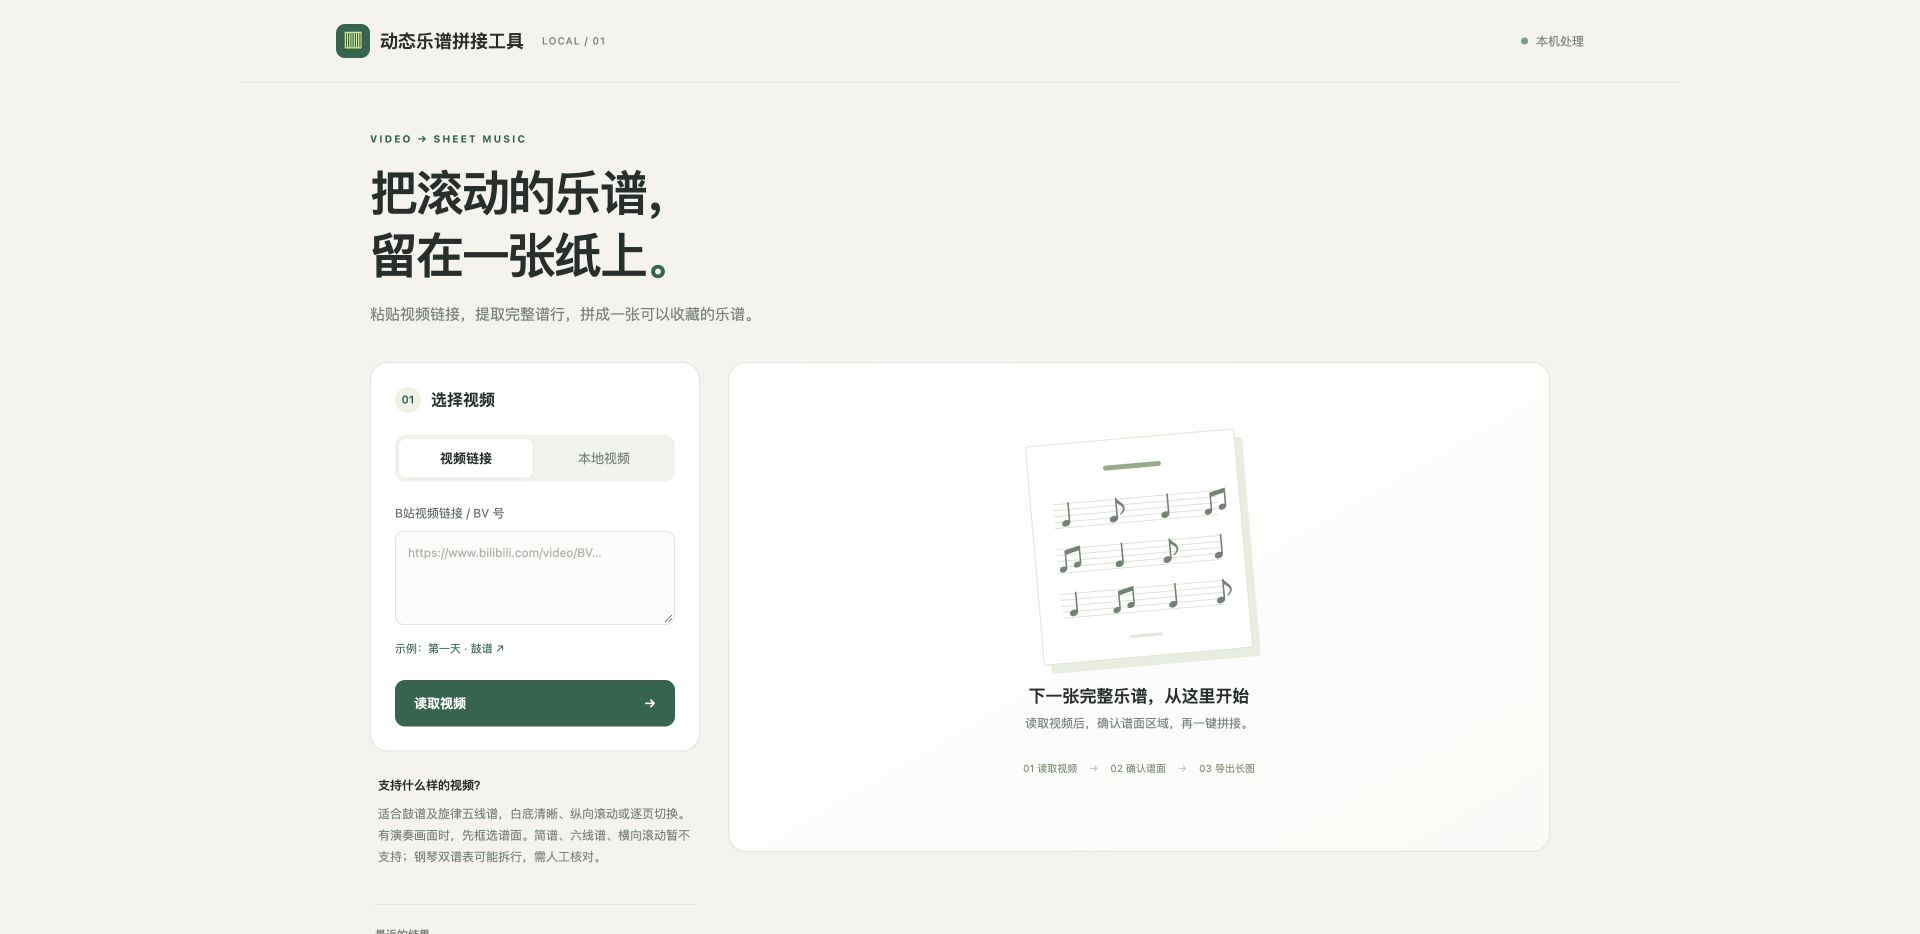
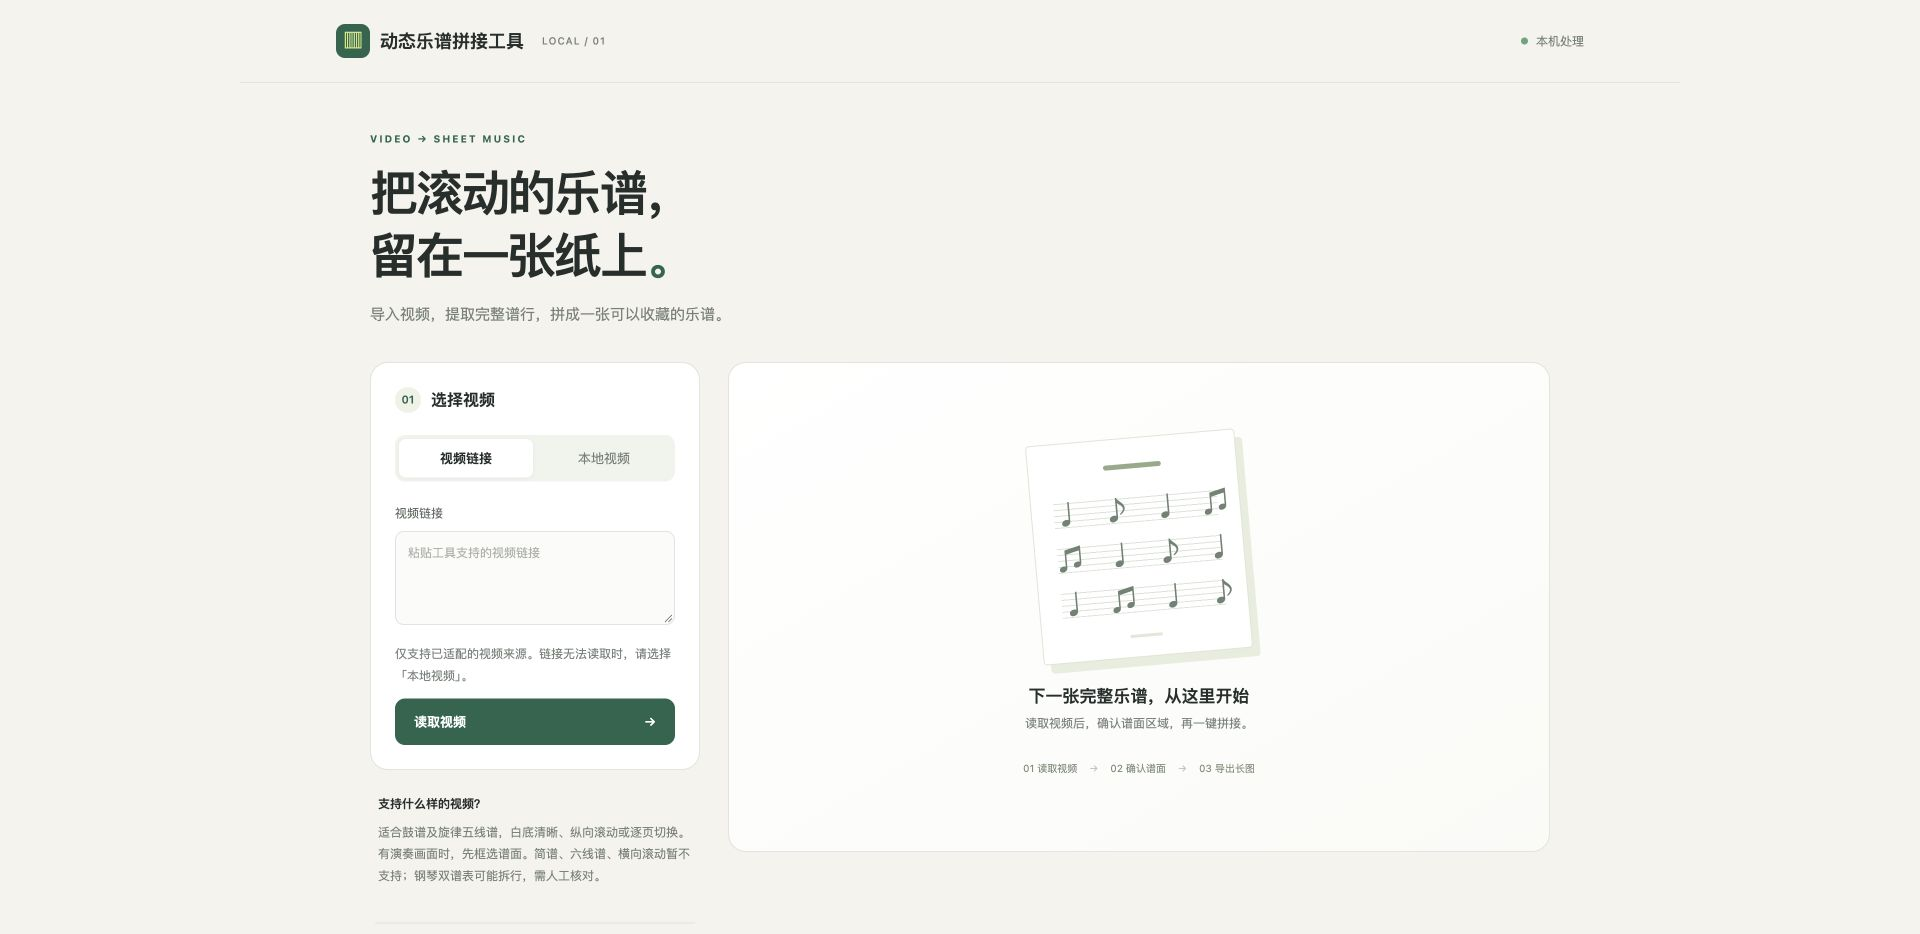
Use platform-neutral project copy and video input UI

diff --git a/web/index.html b/web/index.html
@@ -8,13 +8,13 @@
 <body>
 <header class="topbar"><a class="brand" href="/" aria-label="动态乐谱拼接工具首页"><span class="brand-icon">▥</span> 动态乐谱拼接工具 <span class="version">LOCAL / 01</span></a><span class="local"><i></i> 本机处理</span></header>
 <main>
-  <section class="intro"><p class="eyebrow">VIDEO → SHEET MUSIC</p><h1>把滚动的乐谱，<br>留在一张纸上<span>。</span></h1><p class="lede">粘贴视频链接，提取完整谱行，拼成一张可以收藏的乐谱。</p></section>
+  <section class="intro"><p class="eyebrow">VIDEO → SHEET MUSIC</p><h1>把滚动的乐谱，<br>留在一张纸上<span>。</span></h1><p class="lede">导入视频，提取完整谱行，拼成一张可以收藏的乐谱。</p></section>
   <div class="workspace">
     <aside>
       <section class="card source-card">
         <div class="section-heading"><span class="step">01</span><h2>选择视频</h2></div>
         <div class="tabs" role="tablist"><button role="tab" aria-selected="true" id="link-tab">视频链接</button><button role="tab" aria-selected="false" id="upload-tab">本地视频</button></div>
-        <form id="link-form"><label for="url">B站视频链接 / BV 号</label><textarea id="url" rows="3" placeholder="https://www.bilibili.com/video/BV…" required></textarea><button class="example" type="button" id="example">示例：第一天 · 鼓谱 ↗</button><button class="primary wide" id="read-button" type="submit">读取视频 <span>→</span></button></form>
+        <form id="link-form"><label for="url">视频链接</label><textarea id="url" rows="3" placeholder="粘贴工具支持的视频链接" required></textarea><p class="hint">仅支持已适配的视频来源。链接无法读取时，请选择「本地视频」。</p><button class="primary wide" id="read-button" type="submit">读取视频 <span>→</span></button></form>
         <div id="upload-panel" hidden><label class="dropzone" id="dropzone" for="file"><span class="upload-symbol">↑</span><strong>选择或拖入视频</strong><small>MP4、MOV、MKV · 最大 1 GB</small><input id="file" type="file" accept="video/*,.mkv,.flv,.webm"></label><p class="hint">视频留在本机，不会上传到云端。</p></div>
       </section>
       <section class="note"><span>支持什么样的视频？</span><p>适合鼓谱及旋律五线谱，白底清晰、纵向滚动或逐页切换。有演奏画面时，先框选谱面。简谱、六线谱、横向滚动暂不支持；钢琴双谱表可能拆行，需人工核对。</p></section>

diff --git a/web/app.js b/web/app.js
@@ -18,7 +18,6 @@ async function api(path, body) {
 function lockSources(busy) {
   $('read-button').disabled = busy;
   $('file').disabled = busy;
-  $('example').disabled = busy;
 }
 function tab(source) {
   $('link-tab').setAttribute('aria-selected', String(source === 'link'));
@@ -27,7 +26,6 @@ function tab(source) {
 }
 $('link-tab').onclick = () => tab('link');
 $('upload-tab').onclick = () => tab('upload');
-$('example').onclick = () => { $('url').value = 'https://www.bilibili.com/video/BV1Le411i7Bp/'; $('url').focus(); };
 $('link-form').onsubmit = async event => {
   event.preventDefault(); show('error', false); lockSources(true);
   try { await activate(await api('/api/link', {url: $('url').value.trim()})); }

diff --git a/sources.py b/sources.py
@@ -19,7 +19,7 @@ def api(path, params):
     with request("https://api.bilibili.com" + path + "?" + urllib.parse.urlencode(params)) as r:
         data = json.load(r)
     if data.get("code") != 0:
-        raise ValueError("B站未能提供视频：" + str(data.get("message", "请求失败")))
+        raise ValueError("视频来源未能提供视频，请稍后重试或上传本地视频。")
     return data["data"]
 
 
@@ -31,7 +31,7 @@ def parse_link(link):
     if url.scheme not in ("https", "http") or url.hostname not in (
         "www.bilibili.com", "bilibili.com", "m.bilibili.com", "b23.tv"
     ) or url.username or url.password or url.port not in (None, 80, 443):
-        raise ValueError("请输入 B站视频链接、b23.tv 分享链接或 BV 号。其他来源请上传本地视频。")
+        raise ValueError("暂不支持此视频来源，请输入已适配的视频链接，或上传本地视频。")
     if url.hostname == "b23.tv":
         # Do not follow arbitrary redirects: validate every destination first.
         class NoRedirect(urllib.request.HTTPRedirectHandler):
@@ -57,10 +57,10 @@ def parse_link(link):
         url = urllib.parse.urlparse(link)
     match = re.search(r"/video/(BV[0-9A-Za-z]{10})(?:/|$)", url.path)
     if not match:
-        raise ValueError("没有在链接中找到 BV 号，请复制具体视频的页面链接。")
+        raise ValueError("未能识别视频地址，请复制具体视频的页面链接，或上传本地视频。")
     page = int(urllib.parse.parse_qs(url.query).get("p", ["1"])[0])
     if page < 1:
-        raise ValueError("分 P 编号应大于 0。")
+        raise ValueError("视频分段编号应大于 0。")
     return match.group(1), page
 
 
@@ -70,7 +70,7 @@ def download(link, folder, progress, check_cancel):
     info = api("/x/web-interface/view", {"bvid": bvid})
     pages = info.get("pages", [])
     if part > len(pages):
-        raise ValueError("视频没有指定的分 P。")
+        raise ValueError("视频没有指定的分段。")
     page = pages[part - 1]
     if page.get("duration", 0) > 1800:
         raise ValueError("当前版本支持 30 分钟以内的视频。长视频请先裁剪后上传。")
@@ -80,7 +80,7 @@ def download(link, folder, progress, check_cancel):
     })
     streams = play.get("durl", [])
     if not streams:
-        raise ValueError("B站未返回可读取的视频。可以在本地下载后，使用「上传视频」。")
+        raise ValueError("视频来源未返回可读取的画面，请使用「本地视频」导入文件。")
     if len(streams) != 1:
         raise ValueError("此视频返回多段媒体，请下载为一个完整视频后上传。")
     stream = streams[0]

diff --git a/VALIDATION.md b/VALIDATION.md
@@ -3,11 +3,11 @@
 - 环境：macOS，Python 3.12，FFmpeg，OpenCV。
 - 10 项自动测试全部通过，涵盖重复节奏滚动、同节奏异小节号翻页、场景切换、真实视频编码/解码、区域裁切、导出顺序、输入校验。
 - 新增旋律五线谱合成视频回归：8 行不同音高的谱面，包含升降号、上下加线与连线。逐行匹配原图得分大于 0.90，顺序正确；尚未完成各类乐器真实视频验证。
-- B站链接从网页读取并下载成功；浏览器完成 36 行导出、勾选、重排和重新导出；预览跳至 04:14 成功。
+- 已适配的视频链接读取并下载成功；浏览器完成 36 行导出、勾选、重排和重新导出；预览跳至 04:14 成功。
 - 本地视频上传、生成预览、短片段提取、取消任务通过。
-- 拒绝非 B 站链接、跨站提交、异常 Host、路径越界和不存在的谱行。
+- 拒绝未适配的视频来源、跨站提交、异常 Host、路径越界和不存在的谱行。
 - 启动脚本已在本机运行验证；Windows 启动脚本未做实机验证。
 - JavaScript、Python 和 Bash 语法检查通过。
 - 界面成品截图：preview.jpg。
 
-实际视频：BV1Le411i7Bp，自动输出 36 行；与人工核对截图逐行比较，最小匹配得分 0.9092，无顺序偏差。此结果只说明该测试视频通过，不是对任意视频的准确率承诺。
+实际视频：一段约 4 分 16 秒的动态鼓谱，自动输出 36 行；与人工核对截图逐行比较，最小匹配得分 0.9092，无顺序偏差。此结果只说明该测试视频通过，不是对任意视频的准确率承诺。
